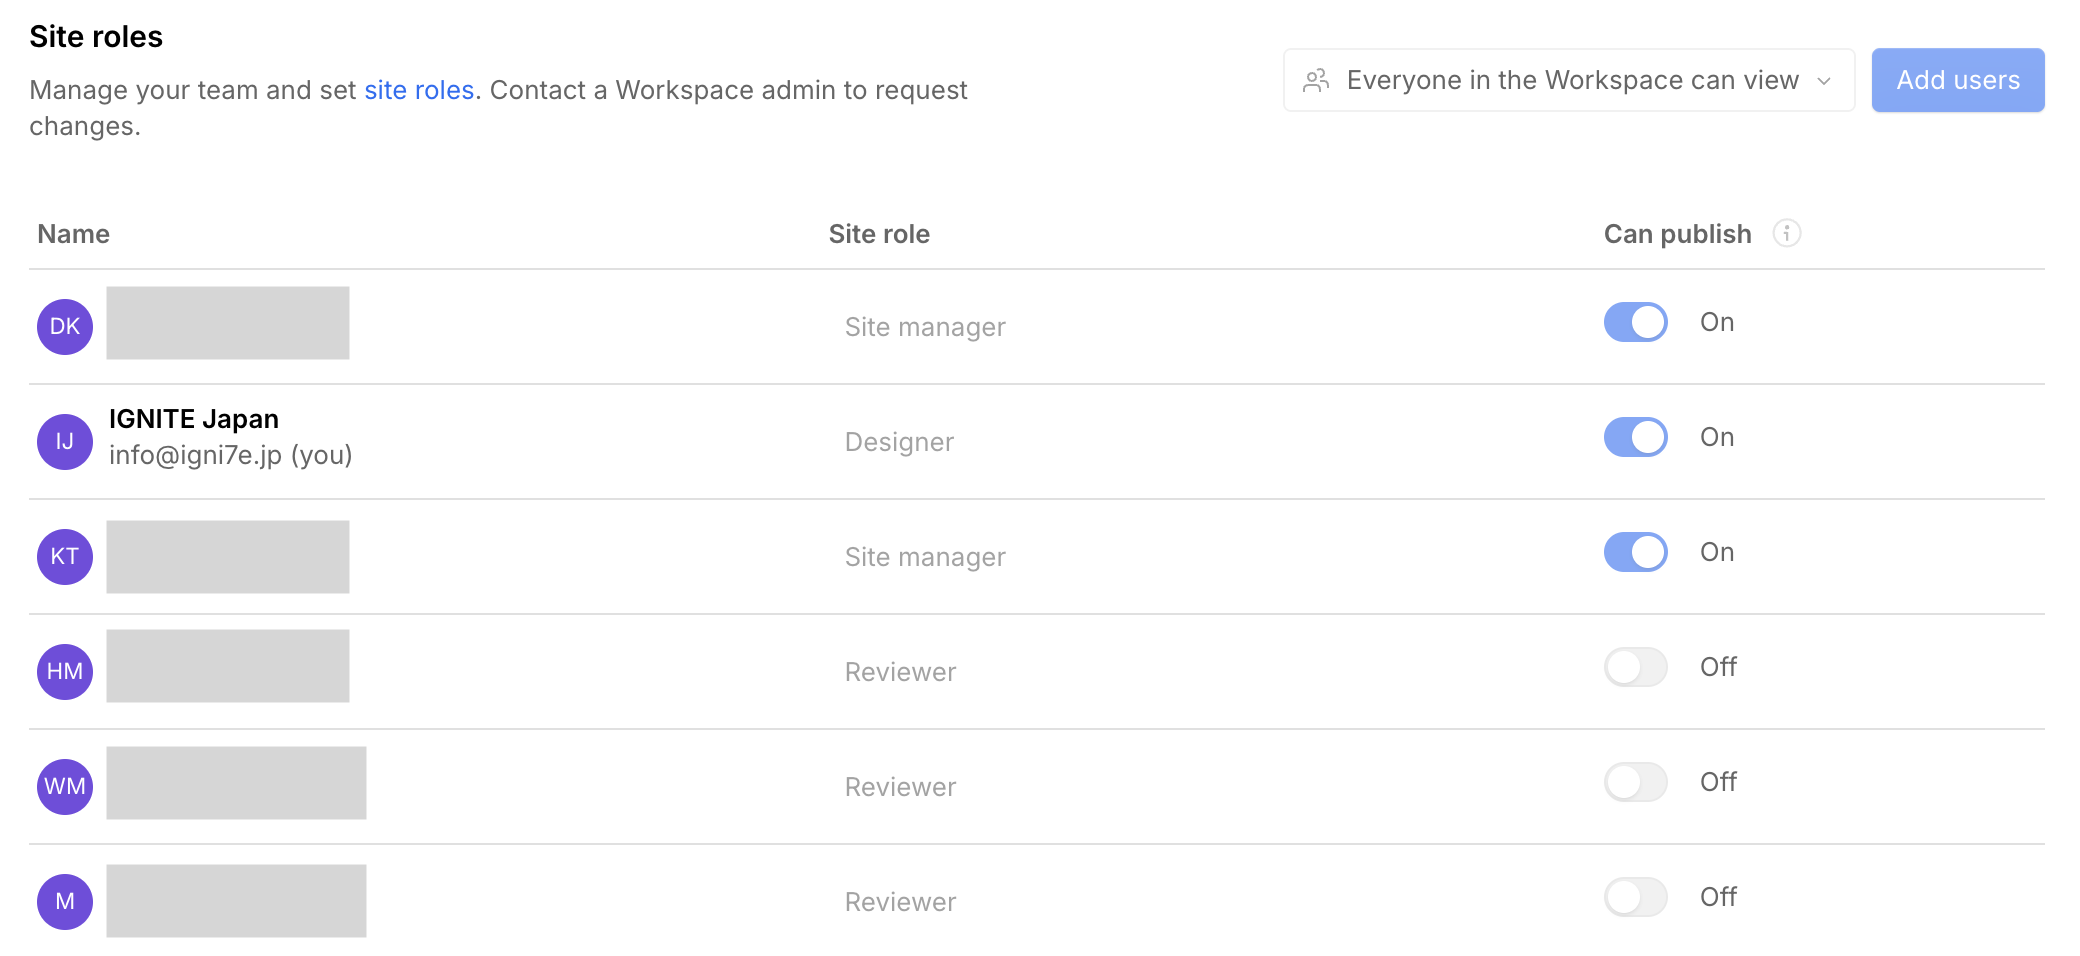
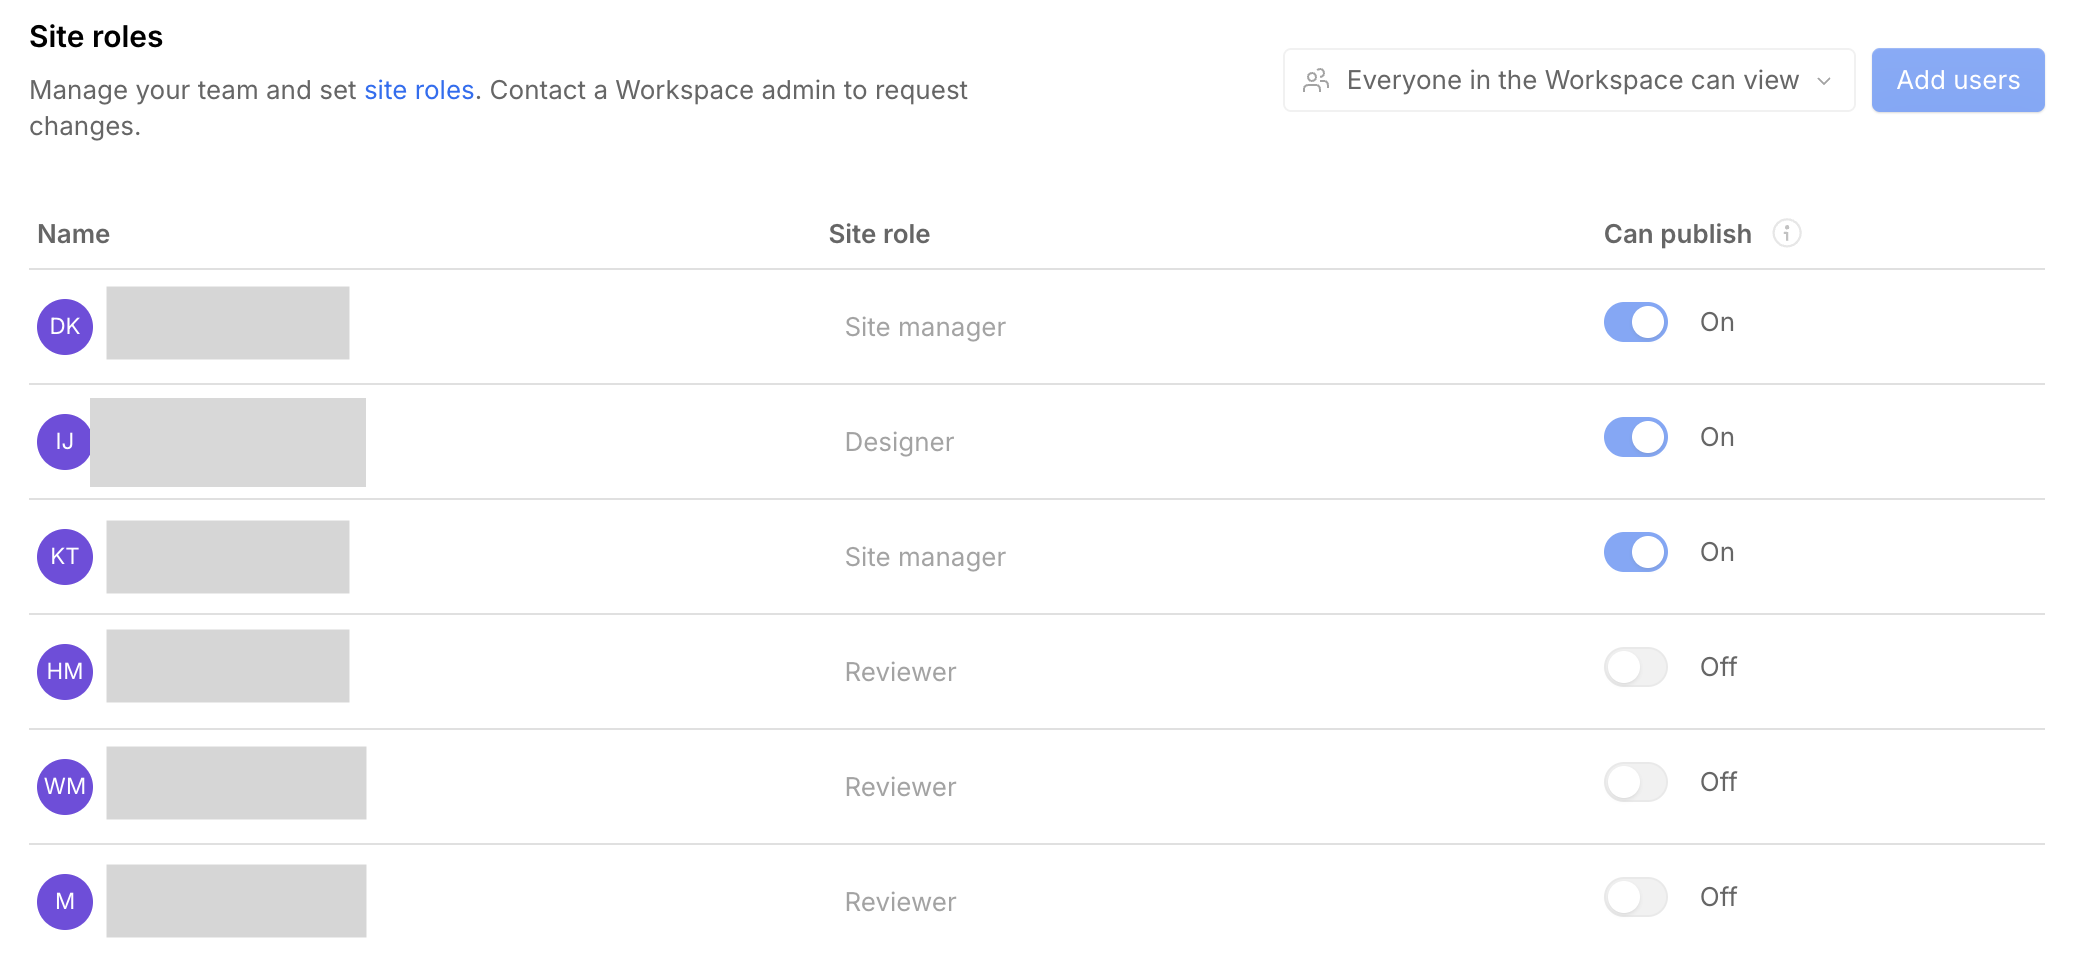
docs: マニュアル内容の点検・修正と個人情報マスク
- 文章の二重記述12件を修正（「〜方法](link)」を〜方法」→重複削除）
- 文脈に合わない/重複する画像を整理（SEO制御にアクセス解析、Archive手順にUnpublish、別サイト画像の重複など）
- create-new-post の手順1/2の画像を正しい順に入れ替え
- Site roles画像のメールアドレスをグレーマスク（a-09/a-13/b-32）

Changed region(s): [[0.0312, 0.3944, 0.1875, 0.5157]]

diff --git a/src/content/docs/04-designer/01-designer-warning.md b/src/content/docs/04-designer/01-designer-warning.md
@@ -46,8 +46,6 @@ sidebar:
 
    ![Designerを開いた状態](../../../assets/captures/manual/d-01-designer-opened.png)
 
-   ![WebflowのDesigner編集画面の概要](../../../assets/captures/manual/b-39-official-designer-overview.png)
-
 4. 非常に多機能で複雑な、Webサイトの設計図とも言える「デザイナー」画面が起動します。
 
 ## 3. デザイナーモードの画面構成
@@ -68,7 +66,7 @@ PDF資料では、Designerで文章を修正する時の入口として次のよ
 ---
 
 <strong>次のステップ:</strong>
-以上の注意点を十分に理解し、覚悟が決まったら、次のマニュアルに進んでください。まずは、比較的リスクの低いテキストの修正から、「[デザイナーモードで「トップページの文章」を変える方法](/04-designer/02-edit-homepage-text/)」を変える方法」を見ていきましょう。
+以上の注意点を十分に理解し、覚悟が決まったら、次のマニュアルに進んでください。まずは、比較的リスクの低いテキストの修正から、「[デザイナーモードで「トップページの文章」を変える方法](/04-designer/02-edit-homepage-text/)」を見ていきましょう。
 
 ![Designerを開く前の判断の図解](../../../assets/ai-diagrams/manual/designer-caution.png)
 

diff --git a/src/content/docs/04-designer/09-discard-designer-changes.md b/src/content/docs/04-designer/09-discard-designer-changes.md
@@ -59,4 +59,4 @@ sidebar:
 ---
 
 <strong>次のステップ:</strong>
-危険なデザイナーモードでの操作は、これで一通り終了です。多言語サイトの翻訳を扱う場合は「E. Locale翻訳」、SEOやフォームなどの運用設定を扱う場合は「F. 便利な設定」に進みます。まずはSEOの基本、「[Google検索結果に出る「ページのタイトル」を変更する方法 (SEO)](/05-settings/01-seo-title/)」を変更する方法 (SEO)」です。
+危険なデザイナーモードでの操作は、これで一通り終了です。多言語サイトの翻訳を扱う場合は「E. Locale翻訳」、SEOやフォームなどの運用設定を扱う場合は「F. 便利な設定」に進みます。まずはSEOの基本、「[Google検索結果に出る「ページのタイトル」を変更する方法 (SEO)](/05-settings/01-seo-title/)」です。

diff --git a/src/content/docs/04-designer/02-edit-homepage-text.md b/src/content/docs/04-designer/02-edit-homepage-text.md
@@ -68,7 +68,7 @@ sidebar:
 ---
 
 <strong>次のステップ:</strong>
-文章の修正はできましたか？次は、同じように静的なページに含まれることが多い「[デザイナーモードで「会社の住所」などを修正する方法](/04-designer/03-edit-address/)」などを修正する方法」です。基本的には同じ操作になります。
+文章の修正はできましたか？次は、同じように静的なページに含まれることが多い「[デザイナーモードで「会社の住所」などを修正する方法](/04-designer/03-edit-address/)」です。基本的には同じ操作になります。
 
 ![Designer画面の三層の図解](../../../assets/ai-diagrams/manual/designer-caution.png)
 

diff --git a/src/content/docs/03-cms/20-archive-post.md b/src/content/docs/03-cms/20-archive-post.md
@@ -44,8 +44,6 @@ sidebar:
 3.  <strong>上部の「Archive」ボタンをクリック:</strong>
     記事を選択すると、一覧の上部にメニューが表示されます。この中から<strong>「Archive」</strong>ボタンをクリックします。
 
-![「Unpublish」オプションのドロップダウン](../../../assets/captures/manual/c-13-archive-button-visible.png)
-
 4.  <strong>確認メッセージで再度「Archive」をクリック:</strong>
     「`Are you sure you want to archive 1 item?`」（本当に1個のアイテムをアーカイブしますか？）という確認メッセージが表示されます。問題なければ、もう一度「Archive」ボタンをクリックします。
 
